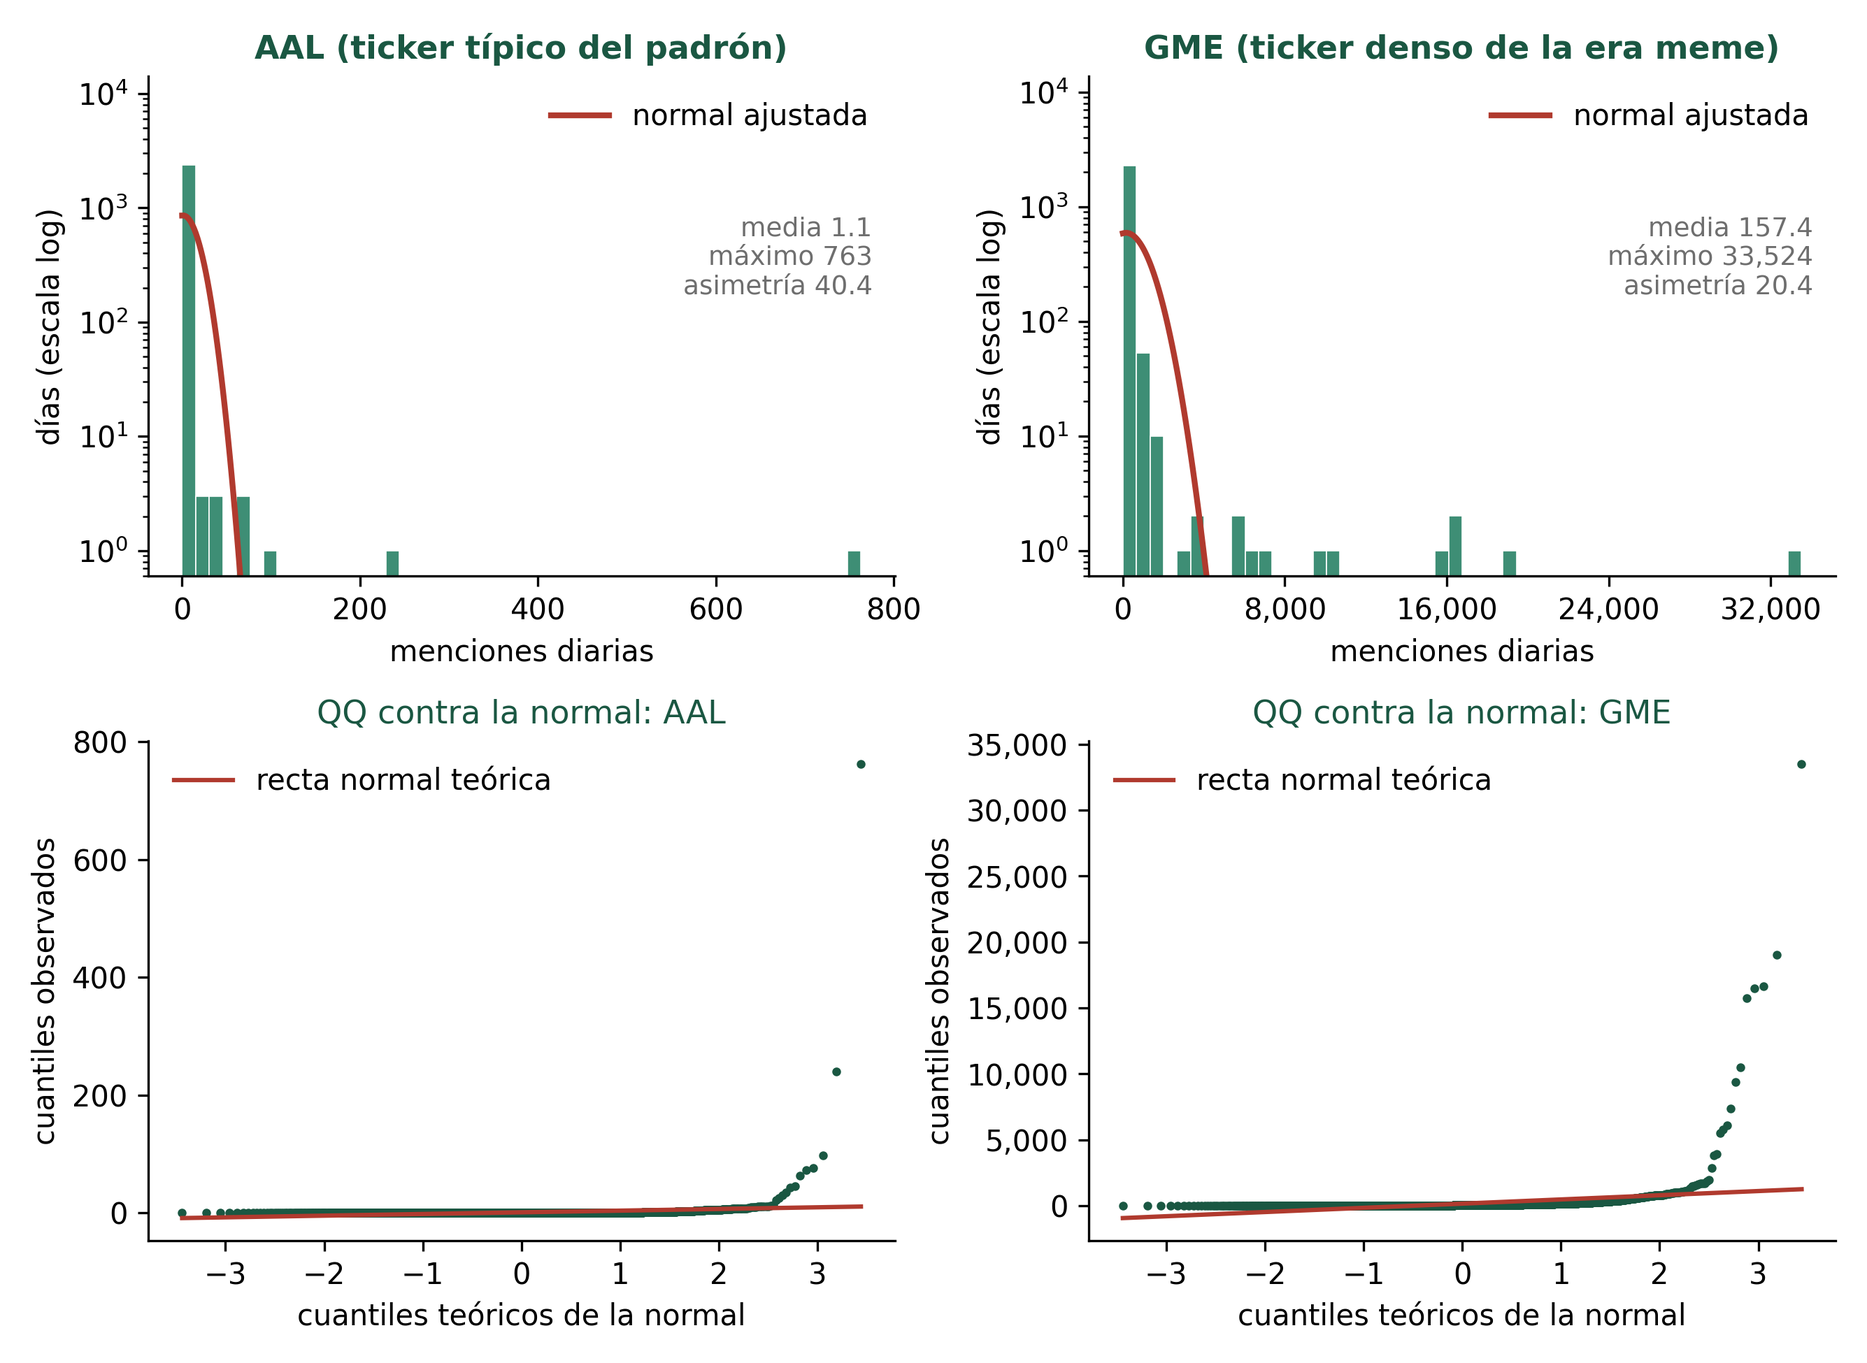
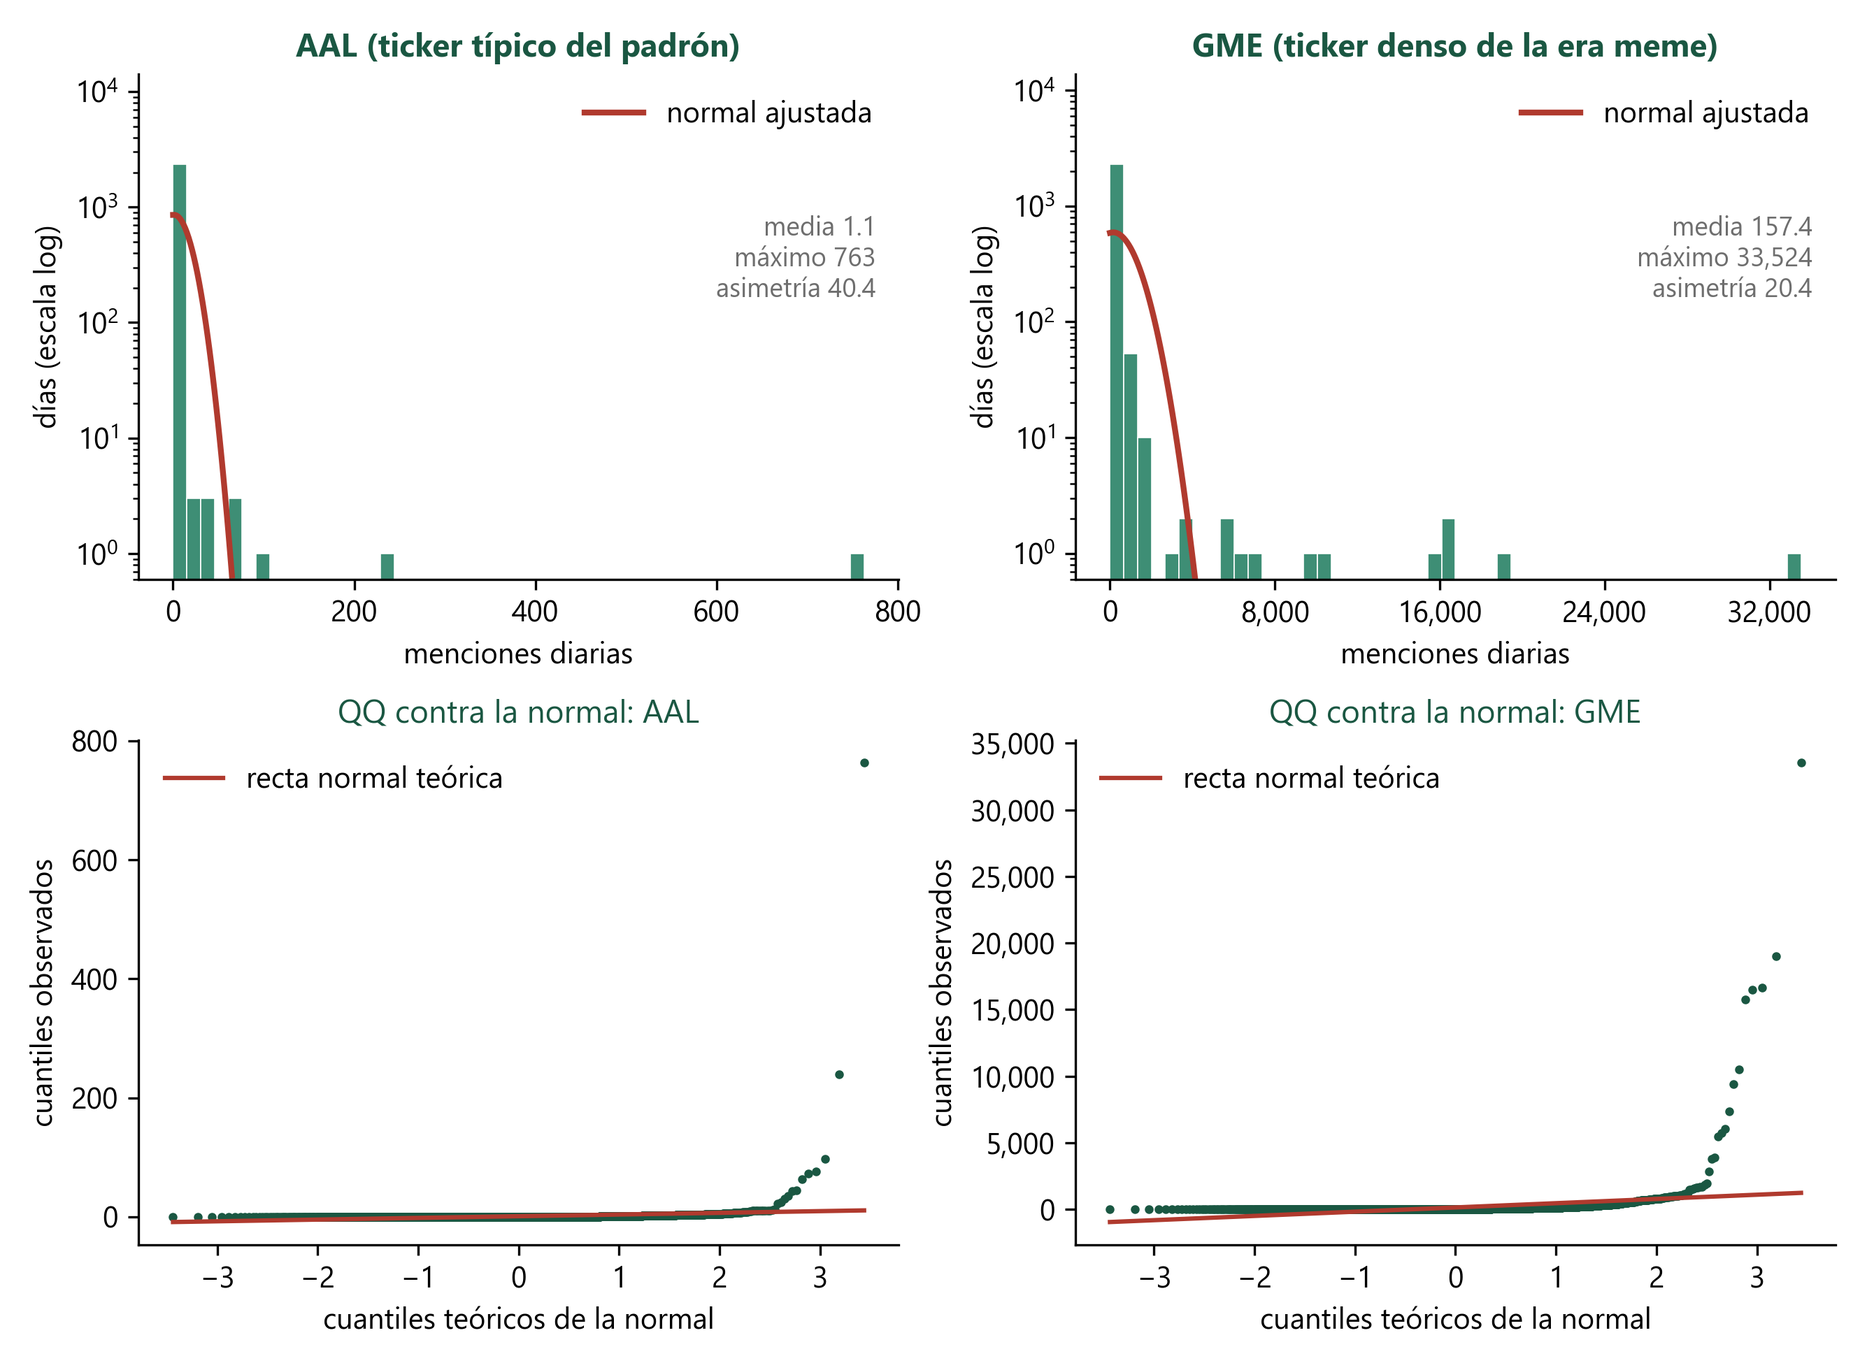
Figuras en Segoe UI desde carpeta local (fuente_figuras.py), sin versionar la fuente

diff --git a/10_figuras_manuscrito/figura_H_1_detector.py b/10_figuras_manuscrito/figura_H_1_detector.py
@@ -9,26 +9,28 @@ import matplotlib; matplotlib.use('Agg')
 import matplotlib.pyplot as plt
 from matplotlib.patches import FancyBboxPatch, Polygon, FancyArrowPatch
 V1, V2, ROJO, AZUL, GRIS, TXT = '#00684A', '#1A5742', '#B0332A', '#2F5F8F', '#4D4D4D', '#222222'
-plt.rcParams.update({'font.family': 'DejaVu Sans', 'mathtext.fontset': 'dejavusans'})
+import sys; sys.path.insert(0, str(Path(__file__).resolve().parents[1] / 'herramientas'))
+from fuente_figuras import fuente_figuras  # Segoe UI si esta en la carpeta local, si no DejaVu Sans (version 064)
+CURSIVA = fuente_figuras()
 fig, ax = plt.subplots(figsize=(9.0, 12.6)); ax.set_xlim(0, 100); ax.set_ylim(0, 140); ax.axis('off')
 FS = 9.4
-def caja(x, y, w, h, txt, borde=V2, fondo='white', lw=1.6, fs=FS, color=TXT, ls='-', rs=1.4):
+def caja(x, y, w, h, txt, borde=V2, fondo='white', lw=1.6, fs=FS, color=TXT, ls='-', rs=1.4, interlinea=1.55):
     ax.add_patch(FancyBboxPatch((x, y), w, h, boxstyle=f'round,pad=0,rounding_size={rs}', facecolor=fondo, edgecolor=borde, linewidth=lw, linestyle=ls))
-    ax.text(x + w / 2, y + h / 2, txt, ha='center', va='center', fontsize=fs, color=color, linespacing=1.55)
+    ax.text(x + w / 2, y + h / 2, txt, ha='center', va='center', fontsize=fs, color=color, linespacing=interlinea)
 def rombo(cx, cy, w, h, txt):
     ax.add_patch(Polygon([(cx, cy + h / 2), (cx + w / 2, cy), (cx, cy - h / 2), (cx - w / 2, cy)], closed=True, facecolor='#FBF4F3', edgecolor=ROJO, linewidth=1.8))
     ax.text(cx, cy, txt, ha='center', va='center', fontsize=FS, color=TXT, linespacing=1.55)
 def flecha(puntos):
     for a, b in zip(puntos[:-2], puntos[1:-1]): ax.plot([a[0], b[0]], [a[1], b[1]], color=GRIS, lw=1.4)
     ax.add_patch(FancyArrowPatch(puntos[-2], puntos[-1], arrowstyle='-|>', mutation_scale=11, color=GRIS, lw=1.4, shrinkA=0, shrinkB=0))
-def etiqueta(x, y, t): ax.text(x, y, t, fontsize=9.5, style='italic', color=GRIS, ha='left', va='center')
+def etiqueta(x, y, t): ax.text(x, y, t, fontsize=9.5, style=CURSIVA, color=GRIS, ha='left', va='center')
 def seccion(y, t):
     ax.text(2, y, t, fontsize=13, fontweight='bold', color=V1, ha='left', va='bottom'); ax.plot([2, 98], [y - 1.0, y - 1.0], color=V1, lw=1.6)
 # --- variables de entrada y parametros
 seccion(134.5, 'Variables de entrada y parámetros')
-caja(2, 116, 46, 15, r'$\bf{Entrada}$' + '\n' + r'Serie diaria de menciones $m_t$ por ticker,' + '\nde la matriz maestra de Reddit\n(submissions y comments, 2020-2026)', fs=9.6)
-caja(52, 116, 46, 15, r'$\bf{Parámetros\ del\ detector}$' + '\n' + 'Base móvil: 30 días previos (mínimo 15,\nexcluye el día evaluado);  ' + r'$z^{*} = 4$,  $m_t \geq 30$' + '\n'
-     + r'$\kappa = 0.25$;  extinción: 5 días bajo $U$' + '\n' + r'catálogo: $\geq 3$ días y $\geq 300$ menciones', fs=9.3)
+caja(2, 115, 46, 16.5, r'$\bf{Entrada}$' + '\n' + r'Serie diaria de menciones $m_t$ por ticker,' + '\nde la matriz maestra de Reddit\n(submissions y comments, 2020-2026)', fs=9.6, interlinea=1.4)
+caja(52, 115, 46, 16.5, r'$\bf{Parámetros\ del\ detector}$' + '\n' + 'Base móvil: 30 días previos (mínimo 15,\nexcluye el día evaluado);  ' + r'$z^{*} = 4$,  $m_t \geq 30$' + '\n'
+     + r'$\kappa = 0.25$;  extinción: 5 días bajo $U$' + '\n' + r'catálogo: $\geq 3$ días y $\geq 300$ menciones', fs=9.3, interlinea=1.3)
 # --- algoritmo
 seccion(110, 'Algoritmo: encendido y extinción de un evento de atención')
 caja(33, 100, 34, 6, r'Siguiente día $t$ del ticker', borde='#5A5A5A', fondo='#F2F2F2', rs=2.5)

diff --git a/10_figuras_manuscrito/figura_3_1_matriz.py b/10_figuras_manuscrito/figura_3_1_matriz.py
@@ -9,7 +9,9 @@ import matplotlib; matplotlib.use('Agg')
 import matplotlib.pyplot as plt
 from matplotlib.patches import Rectangle, FancyArrowPatch
 V1, V2, GRIS, SOMBRA, TXT = '#00684A', '#1A5742', '#555555', '#E4EFEA', '#222222'
-plt.rcParams['font.family'] = 'DejaVu Sans'
+import sys; sys.path.insert(0, str(Path(__file__).resolve().parents[1] / 'herramientas'))
+from fuente_figuras import fuente_figuras  # Segoe UI si esta en la carpeta local, si no DejaVu Sans (version 064)
+CURSIVA = fuente_figuras()
 cols = ['GME', 'AMC', 'TSLA', 'BBBY', 'NVDA', 'PLTR', '···', 'ZM']
 filas = [('1-ene-2020', ['12', '3', '208', '0', '5', '9', '', '1']), ('2-ene-2020', ['15', '4', '233', '1', '7', '12', '', '0']),
          ('3-ene-2020', ['9', '2', '187', '0', '4', '8', '', '2']), ('⋮', [''] * 8),
@@ -31,7 +33,7 @@ for i, (fecha, vals) in enumerate(filas):
     ax.text(x0 - 0.2, y + h / 2, fecha, ha='right', va='center', fontsize=10 if fecha != '⋮' else 13, fontweight='bold', color=GRIS)
 # rotulo del pico de GME: a la izquierda de su fecha, sin tapar los puntos suspensivos
 yp = ytop - h * 5 + h / 2
-ax.text(-3.75, yp, 'pico de GME', ha='right', va='center', fontsize=9.5, style='italic', fontweight='bold', color=V2)
+ax.text(-3.75, yp, 'pico de GME', ha='right', va='center', fontsize=9.5, style=CURSIVA, fontweight='bold', color=V2)
 # definicion de la celda: la flecha baja entre los encabezados a la celda vacia de la columna de puntos suspensivos
 y1 = ytop - h / 2
 ax.text(10.2, ytop + 1.75, r'$x_{i,t}$ = menciones del ticker $i$ el día $t$' + '\n(máximo una por mensaje; fechado por created_utc)', ha='left', va='center', fontsize=10.5, fontweight='bold', color=TXT)
@@ -43,6 +45,6 @@ ax.text(xr + 1.0, (ytop + yb) / 2 + 1.3, 'Filas: 2,373 días calendario\n(1-ene-
 ax.text(xr + 1.0, yb + 1.25, 'Dos maestras gemelas:\nsubmissions y comments\n(27,808,858 menciones\nconservadas); la global es\nla suma de las 16 matrices\npor subreddit', ha='left', va='center', fontsize=9.5, fontweight='bold', color=GRIS)
 ax.add_patch(FancyArrowPatch((x0, yb - 0.5), (xr, yb - 0.5), arrowstyle='<|-|>', mutation_scale=12, color=V1, lw=1.6))
 ax.text(xr / 2, yb - 1.0, 'Columnas: tickers vigentes del padrón maestro (vidas fechadas)', ha='center', va='center', fontsize=11, fontweight='bold', color=V1)
-ax.text(xr / 2, yb - 1.75, 'Valores ilustrativos, salvo el pico de GME (141,957 menciones el 28-ene-2021, dato real del catálogo).', ha='center', va='center', fontsize=9, style='italic', fontweight='bold', color=GRIS)
+ax.text(xr / 2, yb - 1.75, 'Valores ilustrativos, salvo el pico de GME (141,957 menciones el 28-ene-2021, dato real del catálogo).', ha='center', va='center', fontsize=9, style=CURSIVA, fontweight='bold', color=GRIS)
 FIG = Path(__file__).resolve().parent / 'figuras'; FIG.mkdir(exist_ok=True)
 fig.savefig(FIG / 'figura_3_1.png', dpi=250, bbox_inches='tight', facecolor='white'); print('ok')

diff --git a/herramientas/fuente_figuras.py b/herramientas/fuente_figuras.py
@@ -1,0 +1,41 @@
+# fuente_figuras.py - tipografia comun de las figuras de la tesis (version 064, 18-oct-2026).
+# El documento usa Segoe UI. Sus archivos tienen licencia de Microsoft (Segoe_EULA.txt) y no se versionan: este modulo los
+# busca en $TESIS_FUENTES o en $TESIS_BASE/Segoe-fonts-Microsoft (segoeui.ttf, segoeuib.ttf, seguisb.ttf) y, si no estan,
+# deja DejaVu Sans, la letra que trae matplotlib. Asi cualquier persona regenera las figuras con los mismos datos y trazos;
+# solo cambia la letra.
+# Con Segoe UI: la carpeta local no trae cursivas, por lo que los rotulos que eran cursivos quedan rectos (CURSIVA = 'normal');
+# las variables de las formulas (mathtext) van en DejaVu Sans oblicua y el texto recto de las formulas en Segoe UI. Los
+# caracteres que Segoe UI no tiene (por ejemplo, el punto suspensivo vertical de la Figura 3.1) se toman de DejaVu Sans.
+# Uso en cada script de figuras:
+#   sys.path.insert(0, str(<raiz del repositorio> / 'herramientas')); from fuente_figuras import fuente_figuras
+#   CURSIVA = fuente_figuras()   # 'normal' con Segoe UI, 'italic' con DejaVu Sans
+import os
+from pathlib import Path
+import matplotlib
+from matplotlib import font_manager
+
+ARCHIVOS = ('segoeui.ttf', 'segoeuib.ttf', 'seguisb.ttf')
+
+
+def carpeta_segoe():
+    if os.environ.get('TESIS_FUENTES'):
+        return Path(os.environ['TESIS_FUENTES'])
+    return Path(os.environ.get('TESIS_BASE', '/Users/ppizam/Claude/Master Thesis')) / 'Segoe-fonts-Microsoft'
+
+
+def fuente_figuras(verbose=True):
+    d = carpeta_segoe()
+    if (d / 'segoeui.ttf').exists():
+        for a in ARCHIVOS:
+            if (d / a).exists():
+                font_manager.fontManager.addfont(str(d / a))
+        matplotlib.rcParams.update({'font.family': ['Segoe UI', 'DejaVu Sans'], 'mathtext.fontset': 'custom',
+                                    'mathtext.rm': 'Segoe UI', 'mathtext.sf': 'Segoe UI', 'mathtext.bf': 'Segoe UI:bold',
+                                    'mathtext.it': 'DejaVu Sans:italic', 'mathtext.cal': 'DejaVu Sans:italic', 'mathtext.fallback': 'stixsans'})
+        if verbose:
+            print(f'fuente: Segoe UI ({d})')
+        return 'normal'
+    matplotlib.rcParams.update({'font.family': 'DejaVu Sans', 'mathtext.fontset': 'dejavusans'})
+    if verbose:
+        print('fuente: DejaVu Sans (no se encontro Segoe UI; ver herramientas/fuente_figuras.py)')
+    return 'italic'

diff --git a/10_figuras_manuscrito/figura_4_1_pipeline.py b/10_figuras_manuscrito/figura_4_1_pipeline.py
@@ -8,7 +8,9 @@ import matplotlib; matplotlib.use('Agg')
 import matplotlib.pyplot as plt
 from matplotlib.patches import FancyBboxPatch, FancyArrowPatch
 V2, AZUL, ROJO, GRIS, FONDO = '#1A5742', '#2F5F8F', '#B0332A', '#555555', '#F3F4F3'
-plt.rcParams['font.family'] = 'DejaVu Sans'
+import sys; sys.path.insert(0, str(Path(__file__).resolve().parents[1] / 'herramientas'))
+from fuente_figuras import fuente_figuras  # Segoe UI si esta en la carpeta local, si no DejaVu Sans (version 064)
+CURSIVA = fuente_figuras()
 fig, ax = plt.subplots(figsize=(9.4, 5.6)); ax.set_xlim(0, 190); ax.set_ylim(0, 112); ax.axis('off')
 def caja(x, y, w, h, t1, t2=None, borde=V2, fondo='white', lw=1.8, f1=8.7, f2=7.7):
     ax.add_patch(FancyBboxPatch((x, y), w, h, boxstyle='round,pad=0,rounding_size=1.2', facecolor=fondo, edgecolor=borde, linewidth=lw))
@@ -23,7 +25,7 @@ def flecha(puntos, color=GRIS):
 fuentes = ['Reddit\n(dumps + API)', 'X', 'TikTok', 'Instagram', 'YouTube', 'StockTwits']
 for i, f in enumerate(fuentes):
     caja(1 + i * 21.2, 96, 20, 12, f, borde='#5A5A5A', fondo=FONDO, lw=1.4, f1=7.4 if i == 0 else 8.6)
-ax.text(1 + 21.2, 92.6, 'validación multiplataforma de la señal (sección 5.5)', ha='left', va='center', fontsize=8.3, style='italic', color=GRIS)
+ax.text(1 + 21.2, 92.6, 'validación multiplataforma de la señal (sección 5.5)', ha='left', va='center', fontsize=8.3, style=CURSIVA, color=GRIS)
 caja(132, 96, 55, 12, 'Precios y volumen', 'CRSP / WRDS', borde=AZUL, f1=9.4, f2=8.2)
 # fila 1: padron, matrices, detector, catalogo
 X = [1, 49, 97, 145]; W = 42

diff --git a/10_figuras_manuscrito/figuras_manuscrito.py b/10_figuras_manuscrito/figuras_manuscrito.py
@@ -38,7 +38,10 @@ TESIS_BASE = Path(os.environ.get('TESIS_BASE', '/Users/ppizam/Claude/Master Thes
 PANEL = TESIS_BASE / 'Desarrollo' / 'Metodologia' / 'Matrix' / 'eventos' / 'panel_precios_2020_2026.csv'
 
 VERDE, VERDE2, VERDE_CLARO, ROJO, GRIS = '#00684A', '#1A5742', '#A9C8BB', '#B03A2E', '#6E6E6E'
-plt.rcParams.update({'font.family': 'DejaVu Sans', 'axes.spines.top': False, 'axes.spines.right': False, 'savefig.dpi': 300})
+sys.path.insert(0, str(Path(__file__).resolve().parents[1] / 'herramientas'))
+from fuente_figuras import fuente_figuras  # Segoe UI si esta en la carpeta local, si no DejaVu Sans (version 064)
+CURSIVA = fuente_figuras()
+plt.rcParams.update({'axes.spines.top': False, 'axes.spines.right': False, 'savefig.dpi': 300})
 CIFRAS = []
 # Formato comun (18-oct-2026, version 064): coma de miles en los ejes y fechas en espanol (mes abreviado y ano a dos cifras).
 MESES_ES = ['ene', 'feb', 'mar', 'abr', 'may', 'jun', 'jul', 'ago', 'sep', 'oct', 'nov', 'dic']

diff --git a/05_precios_y_supervivencia/figuras_supervivencia.py b/05_precios_y_supervivencia/figuras_supervivencia.py
@@ -14,7 +14,10 @@ from lifelines import KaplanMeierFitter
 import os
 BASE = Path(os.environ.get('TESIS_BASE', '/Users/ppizam/Claude/Master Thesis')); SUP = BASE / 'Desarrollo' / 'Metodologia' / 'Matrix' / 'eventos' / 'supervivencia'; FIG = BASE / 'Figuras'
 VERDE, AZUL, ROJO, GRIS = '#00684A', '#2C6A9E', '#B3402A', '#6E6E6E'
-plt.rcParams.update({'font.family': 'DejaVu Sans', 'axes.spines.top': False, 'axes.spines.right': False})
+import sys; sys.path.insert(0, str(Path(__file__).resolve().parents[1] / 'herramientas'))
+from fuente_figuras import fuente_figuras  # Segoe UI si esta en la carpeta local, si no DejaVu Sans (version 064)
+fuente_figuras()
+plt.rcParams.update({'axes.spines.top': False, 'axes.spines.right': False})
 
 # --- Figura 5.3: Kaplan-Meier por acoplamiento, bandas de Greenwood y numero en riesgo ---------------------------------------
 sup = pd.read_csv(SUP / 'tabla_supervivencia.csv', keep_default_na=False, na_values=[''])

diff --git a/herramientas/conciliacion_cifras.py b/herramientas/conciliacion_cifras.py
@@ -257,6 +257,9 @@ fila('GME_max_previo', 'gme', 'maximo diario de cualquier ticker antes del 13-en
 pd.DataFrame(F).to_csv(EV / 'cifras_maestras.csv', index=False)
 print('== 12. figura 5.6 regenerada desde careo_plataformas_kappa.csv')
 import matplotlib; matplotlib.use('Agg'); import matplotlib.pyplot as plt
+import sys; sys.path.insert(0, str(Path(__file__).resolve().parents[1] / 'herramientas'))
+from fuente_figuras import fuente_figuras  # Segoe UI si esta en la carpeta local, si no DejaVu Sans (version 064)
+fuente_figuras()
 k = pd.read_csv(EV / 'careo_plataformas_kappa.csv')
 fig, ax = plt.subplots(figsize=(9, 5), dpi=200)
 for nombre, careo, color, marca in [('TikTok', 'TikTok-Reddit por evento', '#C0392B', 'o'), ('Instagram', 'Instagram-Reddit por evento', '#2E6DA4', 's'), ('YouTube', 'YouTube-Reddit por evento', '#00684A', '^')]:

diff --git a/10_figuras_manuscrito/figura_4_4_destilacion.py b/10_figuras_manuscrito/figura_4_4_destilacion.py
@@ -7,6 +7,9 @@ from pathlib import Path
 import matplotlib; matplotlib.use('Agg')
 import matplotlib.pyplot as plt
 from matplotlib.patches import FancyBboxPatch, FancyArrowPatch
+import sys; sys.path.insert(0, str(Path(__file__).resolve().parents[1] / 'herramientas'))
+from fuente_figuras import fuente_figuras  # Segoe UI si esta en la carpeta local, si no DejaVu Sans (version 064)
+fuente_figuras()
 V1, V2, FILL, GRIS, ROJO = '#00684A', '#1A5742', '#F1F7F4', '#4D4D4D', '#B0332A'
 fig, ax = plt.subplots(figsize=(11, 5)); ax.set_xlim(0, 110); ax.set_ylim(0, 50); ax.axis('off')
 cajas = [(50, 43, 52, 7.5, 'Patrón de referencia: 946 mensajes', 'consenso de 4 LLMs (823) + adjudicación del autor (123)'),

diff --git a/05_precios_y_supervivencia/perfil_temporal_D.py b/05_precios_y_supervivencia/perfil_temporal_D.py
@@ -22,6 +22,9 @@ from lifelines import CoxTimeVaryingFitter
 import matplotlib
 matplotlib.use('Agg')
 import matplotlib.pyplot as plt
+import sys; sys.path.insert(0, str(Path(__file__).resolve().parents[1] / 'herramientas'))
+from fuente_figuras import fuente_figuras  # Segoe UI si esta en la carpeta local, si no DejaVu Sans (version 064)
+fuente_figuras()
 
 import os
 BASE = Path(os.environ.get('TESIS_BASE', '/Users/ppizam/Claude/Master Thesis'))

diff --git a/herramientas/README.md b/herramientas/README.md
@@ -6,4 +6,5 @@
 - `entorno_studio_2026-09-17.txt` y `entorno_studio_conda_2026-09-17.txt` - inventario del entorno del Mac Studio (usuario distinto, Python 3.12.5, sin conda: el segundo archivo solo dice "sin conda"), tomado el 17 de septiembre de 2026 con `pip freeze`; reproduce las versiones del Studio que cita la Tabla F.1 (torch 2.13.0, transformers 5.15.0, faster-whisper 1.2.1, yt-dlp 2026.7.4). Con los dos inventarios se fijaron los `requirements.txt` de cada módulo (los módulos que corrieron en las dos máquinas llevan marcadores `python_version` para elegir el juego de versiones de cada una).
 - `costos/` - las bitácoras de costos de datos (X, TikTok e Instagram) con su README, que dice qué acredita cada archivo y qué no (capítulo 3 y sección 4.8; comentario 25).
 - `manifiesto_artefactos.py` - genera `MANIFIESTO_ARTEFACTOS.csv` (raíz) con ruta, bytes y sha256 de todos los archivos de datos del repositorio; con `--verificar` recalcula las huellas de un clon y reporta diferencias. El manifiesto narrativo, con los artefactos de Hugging Face y los locales bajo solicitud, es `MANIFIESTO.md` (raíz).
+- `fuente_figuras.py` - tipografía común de los scripts de figuras (versión 064): registra Segoe UI desde `$TESIS_BASE/Segoe-fonts-Microsoft` (o `$TESIS_FUENTES`) si está, y si no deja DejaVu Sans. Los archivos de Segoe UI tienen licencia de Microsoft y no se versionan (`.gitignore` excluye `*.ttf` y `*.otf`).
 - `rutas_reescritas_ver023.csv` - registro de las 130 rutas absolutas de la máquina del autor que la versión 023 sustituyó en 93 scripts y 12 cuadernos por las variables de entorno `TESIS_BASE` y `REDDIT_DATA` (ruta original y expresión nueva, con la celda cuando es un cuaderno); cada expresión se verificó equivalente a la ruta original con las variables sin definir.

diff --git a/10_figuras_manuscrito/README.md b/10_figuras_manuscrito/README.md
@@ -9,5 +9,6 @@
 - `figura_4_4_destilacion.py` dibuja la Figura 4.4 (etapas de la destilación del clasificador). Es un diagrama sin insumos de datos; sus cifras son las de las secciones 4.4 y 4.5. Salida en `figuras/figura_4_4.png`.
 - `figura_3_1_matriz.py`, `figura_4_1_pipeline.py` y `figura_H_1_detector.py` dibujan los diagramas de las Figuras 3.1 (estructura de la matriz de menciones), 4.1 (etapas del pipeline) y H.1 (algoritmo del detector), que hasta la versión 063 eran diagramas sin script. No tienen insumos de datos; salidas en `figuras/figura_3_1.png`, `figuras/figura_4_1.png` y `figuras/figura_H_1.png`.
 - Versión 064 (18-oct-2026): coma de miles en los ejes, fechas en español (mes abreviado y año a dos cifras), línea del comité asesor de la SEC en su fecha (10-dic-2024) y marcas enteras en los paneles de las 50 insignia; las cifras que imprimen las figuras no cambian (`cifras_figuras.csv` idéntico).
+- Tipografía (versión 064, 18-oct-2026): las 18 figuras de la tesis usan Segoe UI, la letra del documento, mediante `herramientas/fuente_figuras.py`. Segoe UI tiene licencia de Microsoft y sus archivos no se versionan: el módulo los lee de `$TESIS_BASE/Segoe-fonts-Microsoft` (o de `$TESIS_FUENTES`) y, si no están, las figuras salen con DejaVu Sans, con los mismos datos y trazos. Esa carpeta no trae cursivas de Segoe UI, por lo que con Segoe los rótulos que eran cursivos quedan rectos y las variables de las fórmulas van en DejaVu Sans oblicua.
 
 Dependencias: pandas, numpy, matplotlib, scipy (versiones en `05_precios_y_supervivencia/requirements.txt` y `04_clasificador/requirements.txt`; inventarios en `herramientas/`).
